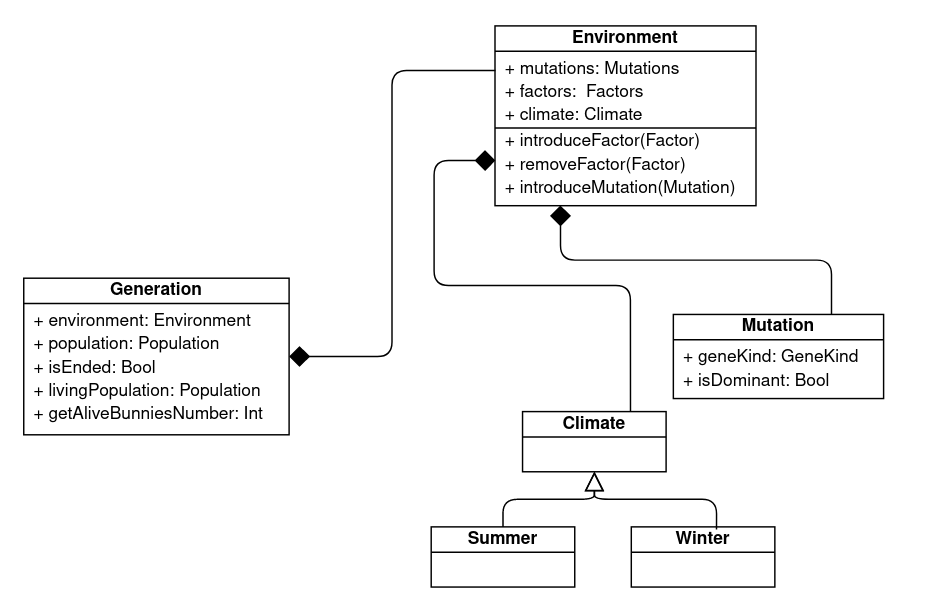
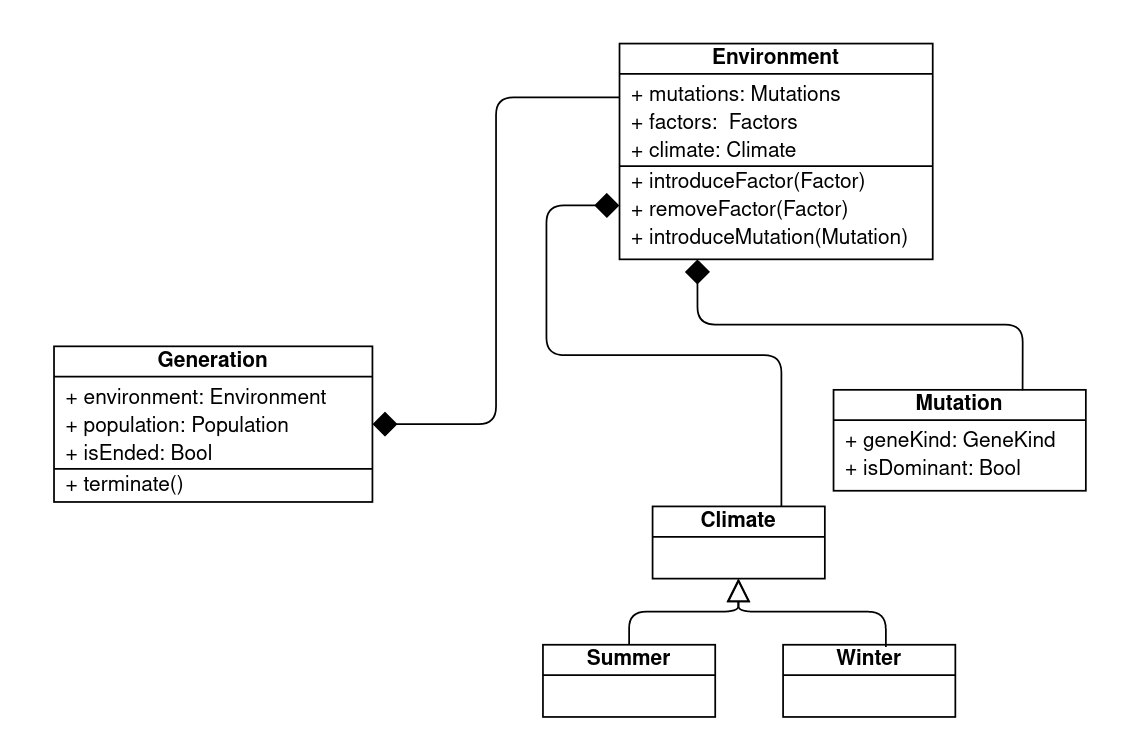
Add Generation and environment detailed design

Changed region(s): [[0.4233, 0.0311, 0.9676, 0.9951], [0.0302, 0.4354, 0.4233, 0.7152]]

diff --git a/doc/report.md b/doc/report.md
@@ -189,7 +189,9 @@ Inoltre, dato che la simulazione si basa fortemente sulla possibilità dell'uten
 
 ### Utilizzo del Pattern MVC
 In figura viene riportato un diagramma ad alto livello di come è stato strutturato il sistema per implementare il pattern archietturale scelto.
+
 ![](images/mvc_architecture.png)
+
 Nello specifico è possibile osservare come l'applicativo si sviluppi su 4 componenti fondamentali:
 * __Model__: modulo che incapsula tutte le classi relative alle entità e ai concetti che compongono il dominio della simulazione
 * __Engine__: modulo che incapsula il loop su cui si basa la simulazione e le entità che gestiscono la storia della simulazione
@@ -202,7 +204,24 @@ Nello specifico è possibile osservare come l'applicativo si sviluppi su 4 compo
 #### Genoma
 #### Reproduction e Mutation
 #### Generazioni e Ambiente
+Una `Generation` rappresenta l'unità di tempo della simulazione. Essa contiene il riferimento dell'attuale popolazione dei coniglietti e dell'Ambiente.
+L'`Environment` rappresenta lo stato dell'ambiente di simulazione all'interno di una generazione, infatti contiene il riferimento dei fattori disturbanti; delle mutazioni e del clima scelti dall'utente durante lo svolgimento della simulazione. 
+
+La modifica dello stato dell'Environment avviene principalmente attraverso `introduceMutation`, `introduceFactor` e `removeFactor`. 
+Questi metodi sono stati esposti perchè implementano le operazioni necessarie per poter introdurre e rimuovere in modo corretto fattori e mutazioni, mentre invece per quanto riguarda il clima è possibile modificare il valore direttamente dal suo campo, in quanto la sua modifica non prevede operazioni particolari.
+Non è stato previsto un metodo per rimuovere le mutazioni, in quanto una volta introdotta durante la simulazione non è possibile modificarla o rimuoverla.
+
+Per avere un'interfaccia più pulita, si è scelto di definire due tipi per `Mutations` e `Factors`, i quali sono rispettivamente una `List<Mutation>` e una `List<Factor>`.
+Per memorizzare queste informazioni si è scelto di utilizzare strutture dati immutabili in una variabile mutabile, in modo da non avere la necessità di fare copie difensive di tali strutture prima di utilizzarle come parametro di altre funzioni e/o metodi, però lasciando il vantaggio di poterle aggiornare senza dover creare nuovamente l'istanza di Environment.
+
+La modellazione del clima invece è stata fatta utilizzando dei `case object` che definiscono i tue tipi di clima che è possibile scegliere nella simulazione: Estate e Inverno.
+
+Di seguito è riportata una immagine che rappresenta la struttura delle classi citate.
+
+![](images/environment_model.png)
+
 #### Fattori
+
 
 
 ### Engine
